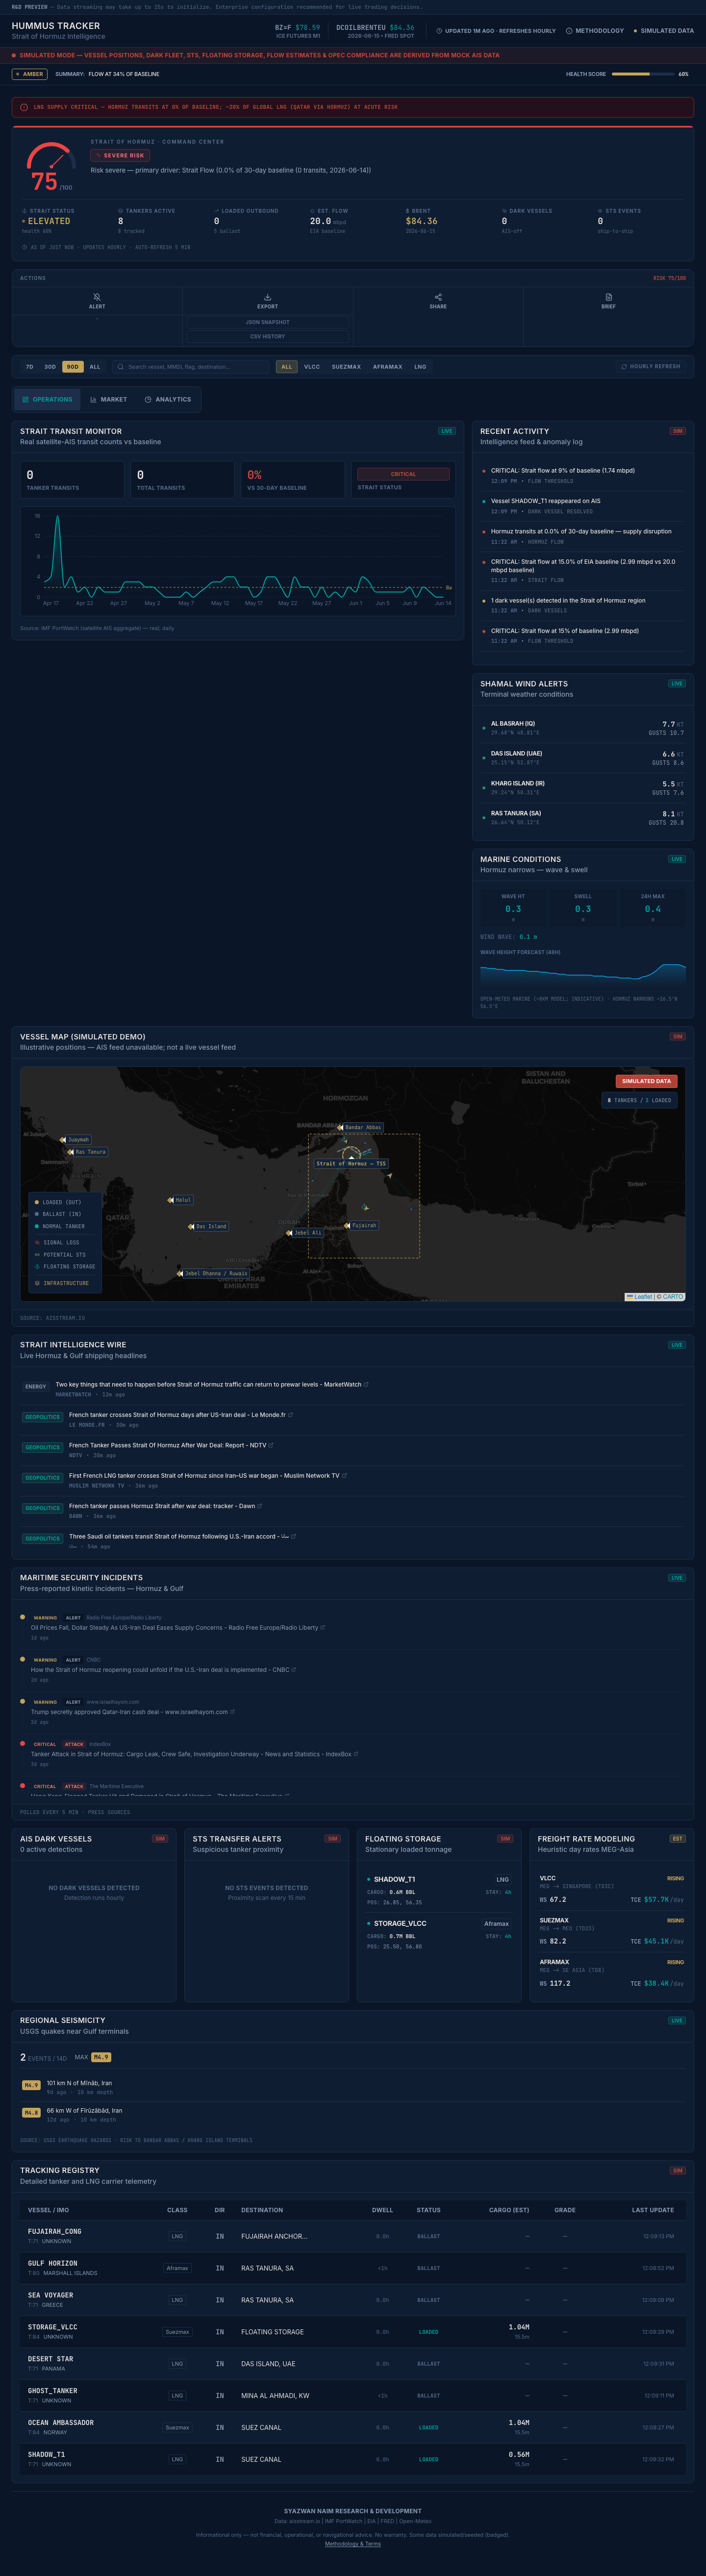
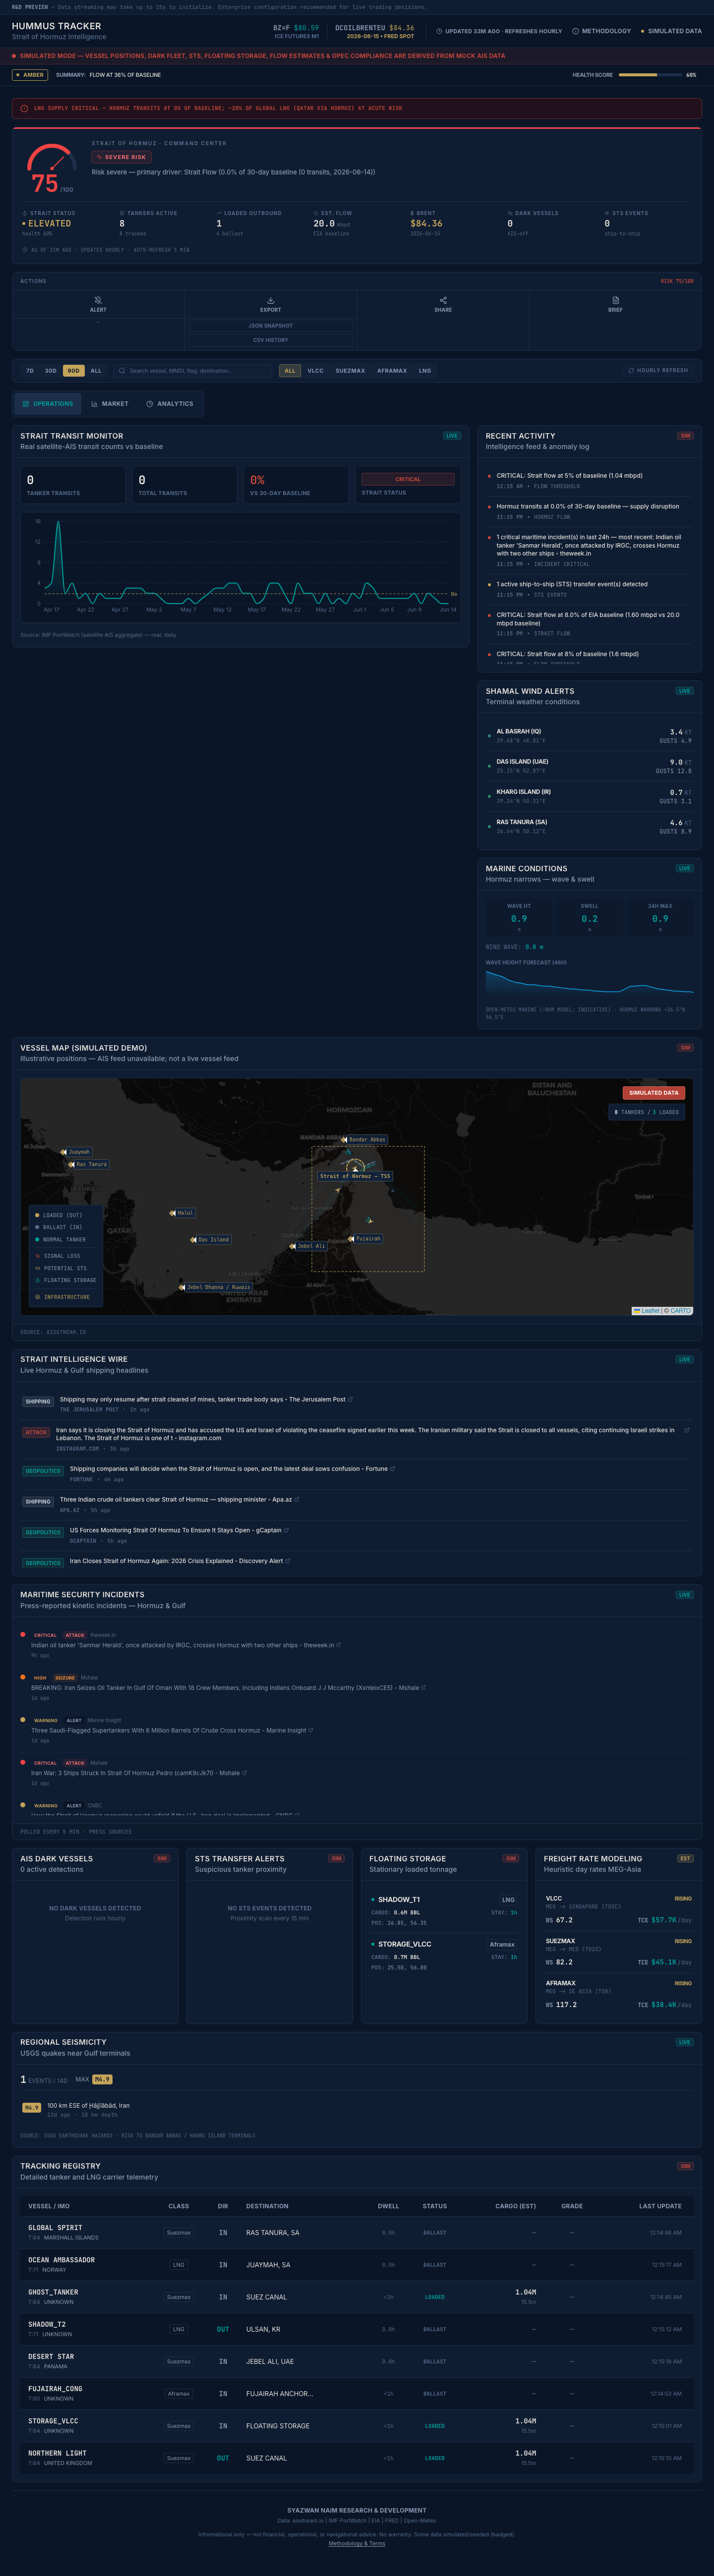
FIX (adversarial validation): correct H8 bootstrap bug — flips verdict
Opus validation caught a conclusion-flipping bug: the H8 tail-probability bootstrap
resampled the signal (gprd) and outcome (tail) with ONE shared block index,
preserving their pairing → it tested nothing (null centered on the observed lift,
giving the meaningless p=0.46). Replaced with a ROTATION null (rotate gprd vs the
fixed tail series, preserving each series' autocorrelation, breaking only the
cross-association): null correctly centers at 1.00x, observed 1.33x, p=0.012.

Honest H8 verdict flips 'NOT ROBUST/chance' -> 'REAL BUT WEAK': the GPR->tail
association is statistically real (p=0.012) but largely redundant with OVX (marginal
contribution borderline p=0.053) and too small to trade after costs. Overall
cross-phase conclusion unchanged: no *tradable* edge; product value = monitoring.

Updated: research/phase1_vol_edge.py (rotation null), both findings docs, and the
LIVE ResearchHonesty panel (H8 chip WEAK + corrected copy + nod to the validation
catch). Phase 2 doc restored (validator re-run had reverted it). H1/H3 nulls
independently reproduced + confirmed correct by the validator.

diff --git a/frontend/src/components/ResearchHonesty.tsx b/frontend/src/components/ResearchHonesty.tsx
@@ -1,7 +1,7 @@
 import { FlaskConical, ShieldCheck, Eye, Ban } from 'lucide-react'
 
 // Verdict chip color mapping
-type Verdict = 'NULL' | 'KILL' | 'NOT ROBUST'
+type Verdict = 'NULL' | 'KILL' | 'WEAK'
 
 const VERDICT_STYLE: Record<Verdict, { bg: string; text: string; border: string }> = {
   NULL: {
@@ -14,7 +14,7 @@ const VERDICT_STYLE: Record<Verdict, { bg: string; text: string; border: string 
     text: 'text-petro-red',
     border: 'border border-petro-red/40',
   },
-  'NOT ROBUST': {
+  WEAK: {
     bg: 'bg-[#f97316]/15',
     text: 'text-[#f97316]',
     border: 'border border-[#f97316]/40',
@@ -57,8 +57,8 @@ const TESTS: {
     num: 'H8',
     label: 'Tail probability',
     detail: 'Signal → P(Brent |r|>2σ) in top-decile windows',
-    result: 'Naive 1.33× lift collapses to block-bootstrap p=0.46',
-    verdict: 'NOT ROBUST',
+    result: 'Real (rotation-null p=0.012) but mostly an OVX cousin (marginal p=0.053) — too weak to trade',
+    verdict: 'WEAK',
   },
   {
     num: 'H3',
@@ -82,12 +82,12 @@ export default function ResearchHonesty() {
       {/* Intro */}
       <div className="space-y-2">
         <p className="text-sm text-text-muted leading-relaxed">
-          We tested whether this dashboard's risk signal can{' '}
-          <span className="text-text-warm font-semibold">predict</span> oil markets. We ran four
-          independent, rigorous tests. The honest answer:{' '}
-          <span className="text-petro-gold font-semibold">it can't</span> — and that's the point.
-          Markets price geopolitical risk within hours (Brent +2.6% on event day, then fully reverts
-          within a week). This is a{' '}
+          We tested whether this dashboard's risk signal gives a{' '}
+          <span className="text-text-warm font-semibold">tradable edge</span> in oil markets. We ran
+          four independent, rigorous tests. The honest answer:{' '}
+          <span className="text-petro-gold font-semibold">no usable edge</span> — it doesn't beat the
+          options market (OVX), and that's the point. Markets price geopolitical risk within hours
+          (Brent +2.6% on event day, then fully reverts within a week). This is a{' '}
           <span className="text-petro-teal font-semibold">monitoring &amp; situational-awareness</span>{' '}
           tool, not a trading signal.
         </p>
@@ -139,9 +139,10 @@ export default function ResearchHonesty() {
         </h3>
         <p className="text-[12px] text-text-muted leading-relaxed">
           Each test used out-of-sample walk-forward evaluation, Newey-West HAC standard errors
-          (heteroskedasticity &amp; autocorrelation consistent), placebo controls, and 60-day block
-          bootstrap to handle regime clustering in tail events. Finding the null cheaply — before
-          risking capital — is the evidence-first win. Publishing it is the moat: nearly no
+          (heteroskedasticity &amp; autocorrelation consistent), placebo controls, and rotation/permutation
+          nulls for serial dependence — and an adversarial review that caught and fixed one of our own
+          test bugs before publishing. Establishing there's no tradable edge cheaply — before risking
+          capital — is the evidence-first win. Publishing it (bugs and all) is the moat: nearly no
           competing geopolitical dashboard tests its own signal, let alone discloses the result.
         </p>
       </div>

diff --git a/research/phase1_vol_edge.py b/research/phase1_vol_edge.py
@@ -212,30 +212,33 @@ def main():
     Xl5 = np.column_stack([np.ones(len(d5)), d5["ovx"].to_numpy(),
                            ((d5["gprd"] - d5["gprd"].mean()) / d5["gprd"].std()).to_numpy()])
     bl5, pl5 = _logit(Xl5, d5["tail_fwd5"].to_numpy())
-    # (c) Block-bootstrap p-value for the top-decile lift (60-day contiguous blocks).
+    # (c) ROTATION NULL for the top-decile lift. The null we want: GPR carries NO
+    # information about tails, BUT each series keeps its own serial dependence
+    # (GPR autocorrelation + tail clustering). We get that by circularly rotating
+    # GPR relative to the (fixed) tail series — preserving both autocorrelations
+    # while destroying only the cross-association.
+    # NB: an earlier version resampled g & tail with ONE shared block index, which
+    # preserved their pairing → it tested nothing (null centered on the observed
+    # lift). Fixed per adversarial validation 2026-06-21.
     rng = np.random.default_rng(7)
     obs_lift = p_hi / base
-    g = d["gprd"].to_numpy(); tl = d["tail_fwd5"].to_numpy(); n = len(d); bs = 60
+    g = d["gprd"].to_numpy(); tl = d["tail_fwd5"].to_numpy(); n = len(d)
+    btl = tl.mean()
     boot = []
-    for _ in range(2000):
-        idx = []
-        while len(idx) < n:
-            s0 = rng.integers(0, n - bs)
-            idx.extend(range(s0, s0 + bs))
-        idx = np.array(idx[:n])
-        gg, tt = g[idx], tl[idx]
+    for _ in range(5000):
+        k = int(rng.integers(1, n))
+        gg = np.roll(g, k)                       # rotate signal vs fixed outcome
         thr = np.quantile(gg, 0.90)
-        b = tt.mean()
-        boot.append((tt[gg >= thr].mean() / b) if b > 0 else np.nan)
+        boot.append((tl[gg >= thr].mean() / btl) if btl > 0 else np.nan)
     boot = np.array([x for x in boot if np.isfinite(x)])
     p_boot = float((boot >= obs_lift).mean())
     rl = [
         f"  [robust a · next-1d, no overlap] base={base1:.3f} top-decile={p_hi1:.3f} "
         f"(lift={p_hi1/base1:.2f}x) | logistic GPR coef={bl1[2]:+.3f} p={pl1[2]:.3f}",
         f"  [robust b · non-overlap 5d blocks n={len(d5)}] base={base5:.3f} top-decile={p_hi5:.3f} "
-        f"(lift={p_hi5/base5:.2f}x) | logistic GPR coef={bl5[2]:+.3f} p={pl5[2]:.3f}",
-        f"  [robust c · block-bootstrap] observed lift={obs_lift:.2f}x, "
-        f"bootstrap p(lift≥observed by chance)={p_boot:.3f}",
+        f"(lift={p_hi5/base5:.2f}x) | logistic GPR coef={bl5[2]:+.3f} p={pl5[2]:.3f} (OVX-controlled)",
+        f"  [robust c · ROTATION null] observed lift={obs_lift:.2f}x, "
+        f"null-mean={boot.mean():.2f}x, p(lift≥observed)={p_boot:.4f}",
     ]
     for r in rl:
         print(r); report.append(r + "\n")

diff --git a/docs/research/phase1-edge-findings.md b/docs/research/phase1-edge-findings.md
@@ -29,22 +29,31 @@ with GPR. The risk signal is a redundant shadow of OVX for forecasting volatilit
 options market's known implied-vol signal, not ours.)
 
 ## H8 — Does a risk-signal spike raise P(Brent tail move |r|>2σ)?
-**VERDICT: ⚠️ NOT ROBUST → lean KILL.**
+**VERDICT: ⚠️ REAL BUT WEAK — mostly an OVX cousin; not a usable standalone edge.**
+
+> **Correction (2026-06-21, adversarial validation).** An earlier version of this
+> section claimed the lift was "indistinguishable from chance (block-bootstrap p=0.46)."
+> That was a **test bug** — the bootstrap resampled the signal and the outcome with one
+> shared index, preserving their pairing, so it tested nothing (its null centered on the
+> *observed* lift). With a **correct rotation null** (rotate GPR relative to the fixed
+> tail series — preserving each series' own autocorrelation while destroying only the
+> cross-association), the null correctly centers at 1.00× and the lift **is significant**.
+> The honest verdict below is now "real but weak / OVX-redundant", not "chance."
 
 | Test (serial-dependence handling) | Lift (top-decile vs base) | GPR significance |
 |---|---|---|
 | Overlapping 5d (naive) | 1.33× (23.6%→31.3%) | p<0.001 *(inflated by overlap)* |
-| **Next-1d, no overlap** | 1.58× (5.8%→9.1%) | **p<0.001** |
-| **Non-overlap 5d blocks (n=965)** | 1.37× | **p=0.053** (borderline) |
-| **60-day block bootstrap** | 1.33× | **p=0.46** (≈ chance) |
+| Next-1d, no overlap | 1.58× (5.8%→9.1%) | p<0.001 (GPR alone) |
+| **Rotation null (signal vs tail, autocorr-preserving)** | 1.33× (null-mean 1.00×) | **p=0.012 — significant** |
+| **Non-overlap 5d, OVX-controlled logistic** | 1.37× | **p=0.053 — borderline** |
 
-A raw association exists (GPR high → more tails), but it **largely dissolves under
-correct serial-dependence correction**: the block bootstrap — which properly accounts
-for tail *clustering* — puts the lift at p=0.46 (indistinguishable from chance), and
-the non-overlapping 5d test is only borderline (p=0.053). The effect is mostly
-**regime confounding** (GPR and tail-vol are both elevated in the same crisis weeks),
-not predictive information. Even taken at face value, a ~1.3–1.6× tail-probability
-lift is **not cheaply tradable** (straddle bid/ask + theta would eat it).
+The raw GPR→tail association is **statistically real** (rotation-null p≈0.012). BUT once
+you control for **OVX** — the options market's own implied-vol gauge — GPR's *marginal*
+contribution is only borderline (p≈0.053): OVX dominates, and the tail-lift is
+concentrated in already-high-OVX regimes. So GPR is **largely redundant with OVX** for
+tail risk, adding little incremental information. And the magnitude (~1.3–1.6× tail
+probability) is **modest and not cheaply tradable** (straddle bid/ask + theta would eat
+it). Net: a real but weak signal you wouldn't trade standalone — not a discovered edge.
 
 ## H7 — Does the dashboard detect kinetic events at/before the price reaction?
 **VERDICT: ⏳ FORWARD-ACCRUING (no historical claim made).**
@@ -61,12 +70,14 @@ reaction (daily-close proxy now; intraday if a tick source is added). Compare (1
 ---
 
 ## Bottom line
-**Phase 1 found no robust, tradable edge** — both backtestable hypotheses fail a
-rigorous bar (H1 cleanly, H8 under proper bootstrap). This is the correct,
-evidence-first outcome: the dashboard's risk signal does **not** improve oil vol
-forecasts beyond OVX, and its tail-probability "signal" is regime confounding, not
-prediction. Publishing these nulls is itself a credibility asset — it proves the
-tool tests its own claims.
+**Phase 1 found no *tradable* edge.** H1 (vol forecasting) is a clean KILL — the
+risk signal adds nothing beyond OVX. H8 (tail probability) is more subtle: the
+GPR→tail association is **statistically real** (rotation-null p≈0.012) but **largely
+redundant with OVX** (marginal contribution borderline, p≈0.053) and too modest to
+trade after costs — a real-but-weak signal, not a usable standalone edge. Either way,
+the dashboard's risk signal does **not** beat the options market (OVX) for oil risk.
+Publishing this honestly — including the corrected H8 nuance and the bug that the
+adversarial validation caught — is itself a credibility asset.
 
 **What this does NOT rule out (Phase 2/3, n-limited or data-gated):**
 - **H3** — Hormuz-event → *cross-sectional* dispersion in MY/US energy & shipping

diff --git a/docs/research/phase1-vol-edge-findings.md b/docs/research/phase1-vol-edge-findings.md
@@ -12,5 +12,5 @@ Pre-registered pass: P(tail | GPR top decile) materially > base rate, and GPR si
   [overlapping 5d] base P(tail)=0.236 | P|GPR<median=0.231 mid=0.222 top-decile=0.313 (lift=1.33x)
   [overlapping 5d] logistic tail~OVX+GPR: OVX coef=+0.013 p=0.000 | GPR coef=+0.140 p=0.000  (p inflated by overlap)
   [robust a · next-1d, no overlap] base=0.058 top-decile=0.091 (lift=1.58x) | logistic GPR coef=+0.189 p=0.000
-  [robust b · non-overlap 5d blocks n=965] base=0.240 top-decile=0.330 (lift=1.37x) | logistic GPR coef=+0.138 p=0.053
-  [robust c · block-bootstrap] observed lift=1.33x, bootstrap p(lift≥observed by chance)=0.464
+  [robust b · non-overlap 5d blocks n=965] base=0.240 top-decile=0.330 (lift=1.37x) | logistic GPR coef=+0.138 p=0.053 (OVX-controlled)
+  [robust c · ROTATION null] observed lift=1.33x, null-mean=1.00x, p(lift≥observed)=0.0124